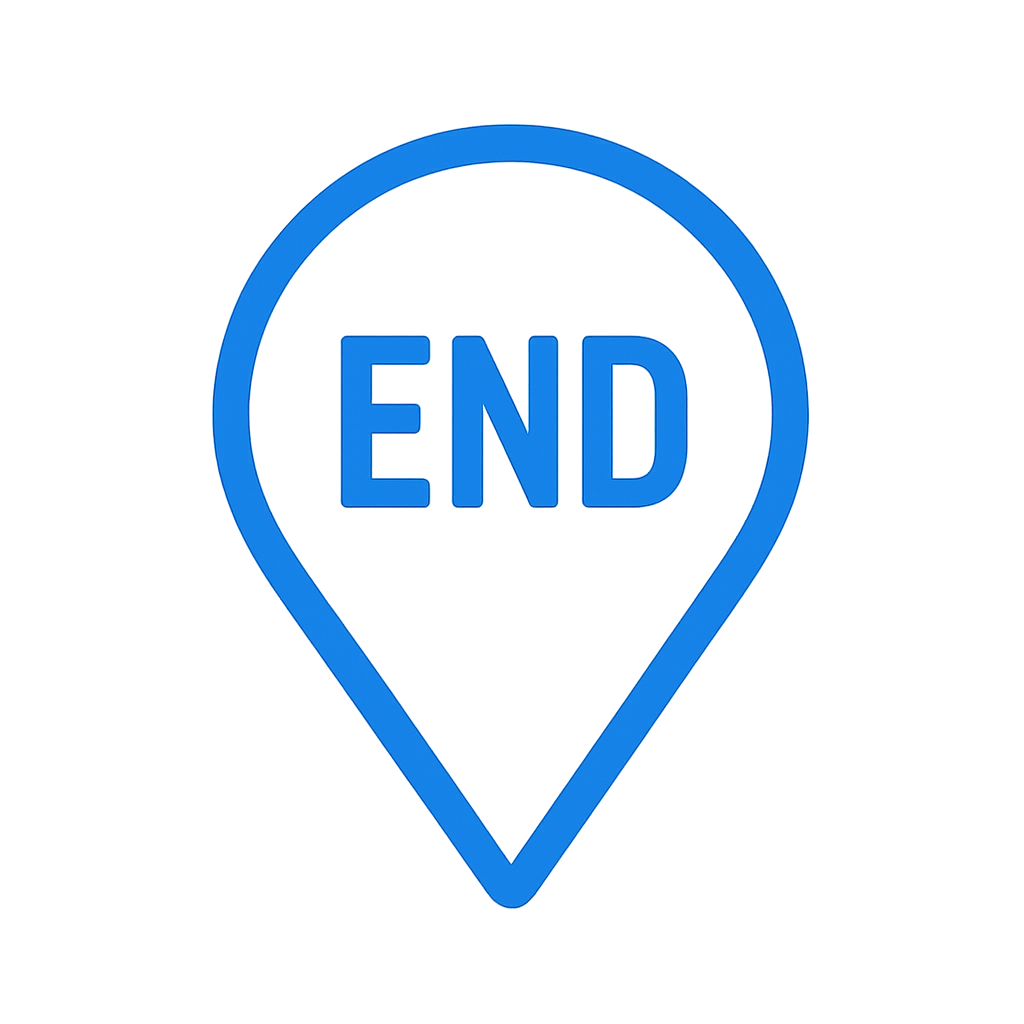
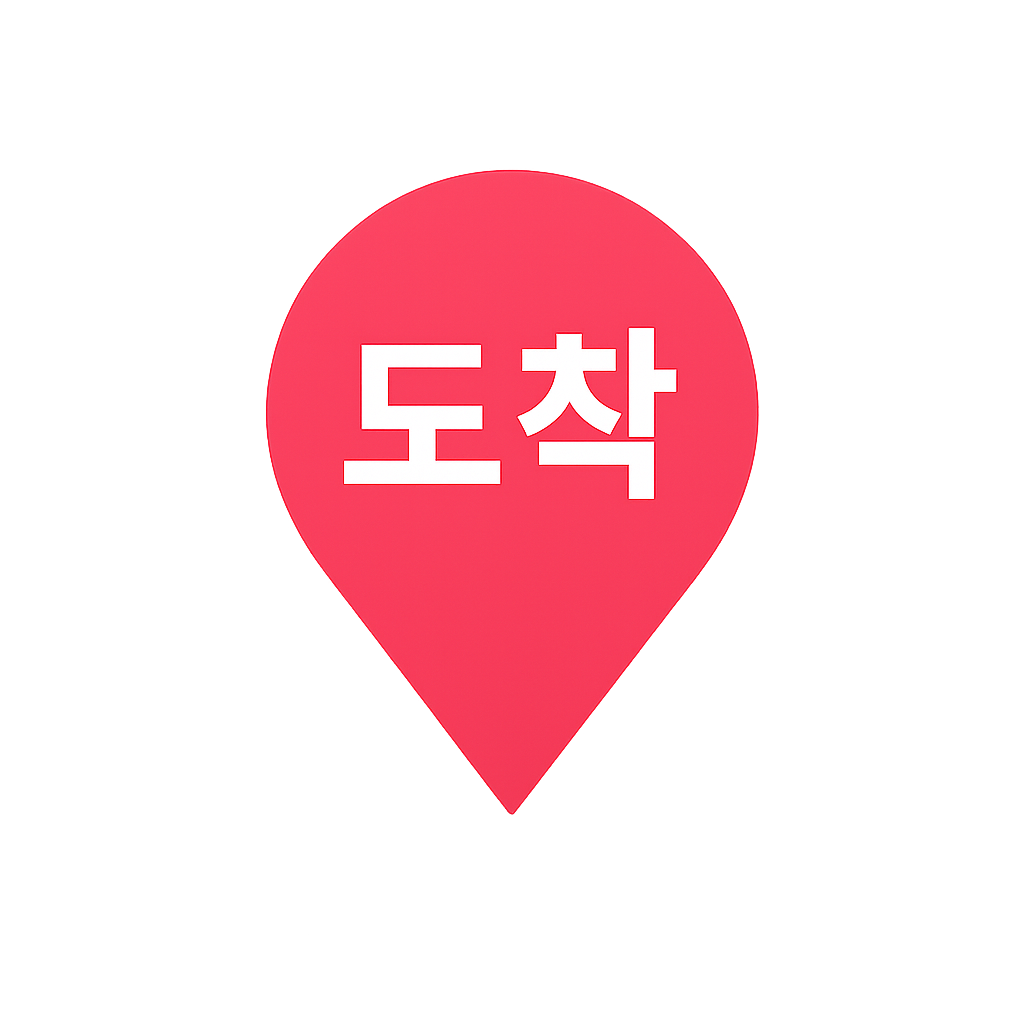
Style: 마커 변경 및 사이즈 변경

Changed region(s): [[0.1875, 0.0938, 0.8125, 0.9062]]

diff --git a/src/components/apply-home/modals/TmapModal.vue b/src/components/apply-home/modals/TmapModal.vue
@@ -82,7 +82,7 @@ function drawRoute(map) {
           const marker = new window.Tmapv2.Marker({
             position: new window.Tmapv2.LatLng(start.lat, start.lon),
             icon: idx === 0 ? markerStart : markerWaypoint,
-            iconSize: new window.Tmapv2.Size(30, 45),
+            iconSize: new window.Tmapv2.Size(60, 60),
             map,
           });
           dynamicMarkers.push(marker);
@@ -92,7 +92,7 @@ function drawRoute(map) {
           const marker = new window.Tmapv2.Marker({
             position: new window.Tmapv2.LatLng(end.lat, end.lon),
             icon: markerEnd,
-            iconSize: new window.Tmapv2.Size(30, 45),
+            iconSize: new window.Tmapv2.Size(60, 60),
             map,
           });
           dynamicMarkers.push(marker);
@@ -144,21 +144,19 @@ function drawRoute(map) {
     });
   } else if (props.mode === 'pedestrian') {
     props.transitResult.forEach((feature, idx, arr) => {
-      const { geometry } = feature;
+    const { geometry } = feature;
 
-      if (geometry.type === 'Point') {
+      if (geometry.type === 'Point'
+        && (idx === 0 || idx === arr.length - 1)
+      ) {
         const [lon, lat] = geometry.coordinates;
-        // 첫 번째 → 시작, 마지막 → 도착, 그 외 → 경유지
-        const iconUrl = idx === 0
-          ? markerStart
-          : idx === arr.length - 1
-            ? markerEnd
-            : markerWaypoint;
+        // 첫 번째 → 시작, 마지막 → 도착 / 경유지 제외
+        const iconUrl = idx === 0 ? markerStart : markerEnd;
 
         const marker = new window.Tmapv2.Marker({
           position: new window.Tmapv2.LatLng(lat, lon),
           icon: iconUrl,
-          iconSize: new window.Tmapv2.Size(30, 45),
+          iconSize: new window.Tmapv2.Size(60, 60),
           map,
         });
         dynamicMarkers.push(marker);
@@ -178,32 +176,41 @@ function drawRoute(map) {
       }
     });
   } else {
-    props.transitResult.forEach(({ geometry, properties }) => {
-      if (geometry.type === 'Point') {
-        const [lon, lat] = geometry.coordinates;
-        const iconUrl =
-          properties.pointType === 'S' ? markerStart :
-          properties.pointType === 'E' ? markerEnd :
-          markerWaypoint;
-        const marker = new window.Tmapv2.Marker({
-          position: new window.Tmapv2.LatLng(lat, lon),
-          icon: iconUrl,
-          iconSize: new window.Tmapv2.Size(30, 45),
-          map,
-        });
-        dynamicMarkers.push(marker);
-      }
+      props.transitResult.forEach(
+      ({ geometry, properties }, idx, arr) => {
+        // 시작(idx=0) or 도착(idx=arr.length-1) 만 찍기
+        if (
+          geometry.type === 'Point' &&
+          (idx === 0 || idx === arr.length - 1)
+        ) {
+          const [lon, lat] = geometry.coordinates;
+          // S는 start, E는 end
+          const iconUrl =
+            properties.pointType === 'S' ? markerStart : markerEnd;
 
-      if (geometry.type === 'LineString') {
-        const path = geometry.coordinates.map(([lon, lat]) => new window.Tmapv2.LatLng(lat, lon));
-        new window.Tmapv2.Polyline({
-          path,
-          strokeColor: '#ff3b3b',
-          strokeWeight: 6,
-          map,
-        });
+          const marker = new window.Tmapv2.Marker({
+            position: new window.Tmapv2.LatLng(lat, lon),
+            icon: iconUrl,
+            iconSize: new window.Tmapv2.Size(60, 60),
+            map,
+          });
+          dynamicMarkers.push(marker);
+        }
+
+        // 경로(라인) 그리기
+        if (geometry.type === 'LineString') {
+          const path = geometry.coordinates.map(
+            ([lon, lat]) => new window.Tmapv2.LatLng(lat, lon)
+          );
+          new window.Tmapv2.Polyline({
+            path,
+            strokeColor: '#ff3b3b',
+            strokeWeight: 4,
+            map,
+          });
+        }
       }
-    });
+    );
   }
 }
 
